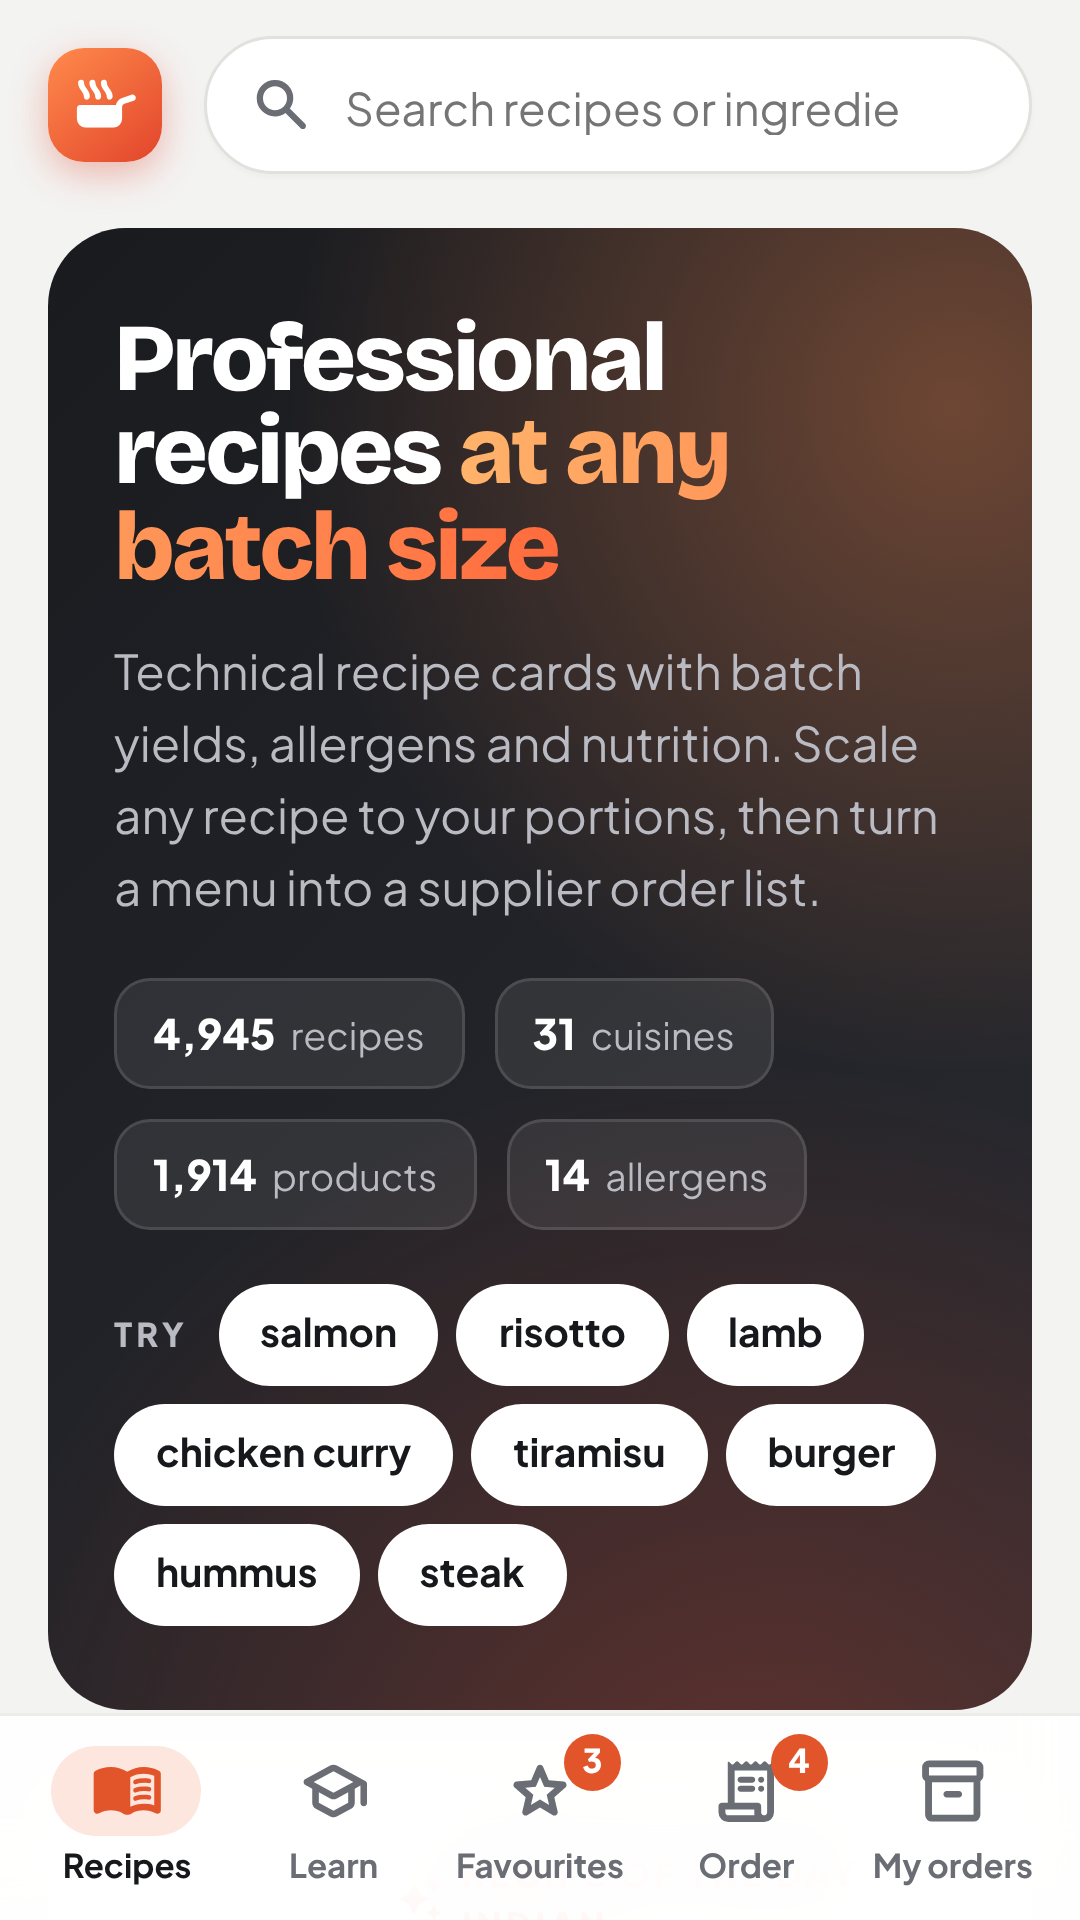
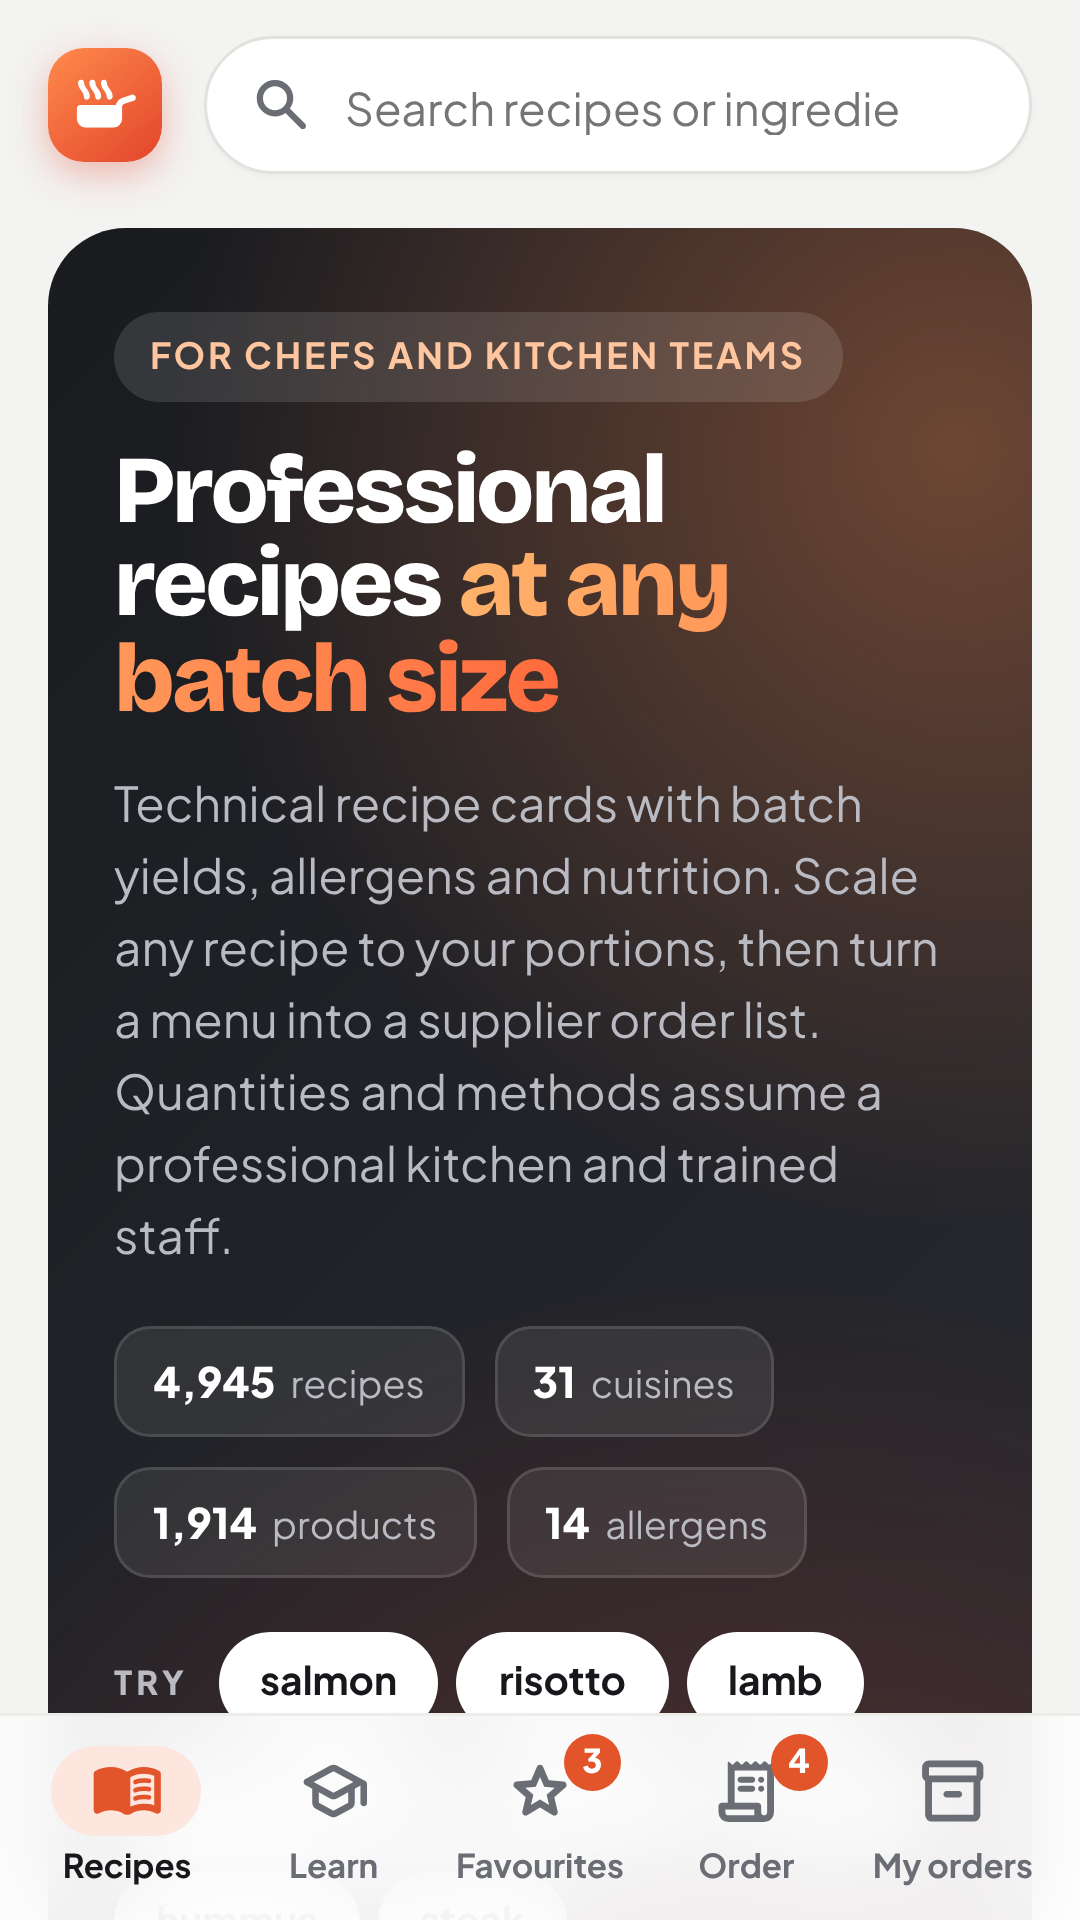
Say clearly that the app is for kitchen professionals
Hero tag, store short and full description, feature graphic and screenshots.

Claude-Session: https://claude.ai/code/session_01U632z7sGB7EKoKSd2kKhrr

Changed region(s): [[0.0306, 0.1562, 0.8861, 0.9062], [0.8861, 0.8438, 0.9778, 0.9062]]

diff --git a/index.html b/index.html
@@ -99,6 +99,7 @@ main{min-width:0}
   background:radial-gradient(circle at 92% 12%,rgba(255,138,76,.35),rgba(255,138,76,0) 42%),radial-gradient(circle at 70% 110%,rgba(226,69,43,.30),rgba(226,69,43,0) 45%),linear-gradient(135deg,var(--hero-1),var(--hero-2))}
 .hero>*{position:relative;z-index:1;min-width:0}
 .hero h1{font-family:var(--f-display);font-weight:800;font-size:clamp(32px,5vw,54px);line-height:.98;letter-spacing:-.03em;margin:0;text-wrap:balance;max-width:15ch;color:var(--hero-ink)}
+.pro-tag{display:inline-block;margin:0 0 14px;padding:6px 12px;border-radius:999px;background:rgba(255,255,255,.12);color:#FFC59E;font-size:12px;font-weight:700;letter-spacing:.08em;text-transform:uppercase}
 .hero h1 em{font-style:normal;background:linear-gradient(90deg,#FFB36B,#FF6B3D);-webkit-background-clip:text;background-clip:text;color:transparent}
 .hero p{margin:14px 0 0;color:var(--hero-muted);max-width:56ch;font-size:16px}
 .stats{display:flex;flex-wrap:wrap;gap:10px;margin-top:18px}
@@ -648,8 +649,8 @@ function viewHome(){
     const pool=R.filter(r=>r.kcal&&!["Prep & Mise en Place","Marinades","Sauces","Staff Canteen","Fermentation & Pickling","Drinks","Classic Cocktails & Bar Spec","Batch Cocktails & Event Punches","Texture-Modified Meals (IDDSI)","Sugar & Chocolate Décor"].includes(D.folders[r.f][0])&&r.lines.length>4&&r.N>=4&&r.kcal<900);
     const day=Math.floor(Date.now()/864e5), fr=pool[(day*7919)%pool.length];
     const POP=["salmon","risotto","lamb","chicken curry","tiramisu","burger","hummus","steak"];
-    m.innerHTML=`<section class="hero"><div><h1>Professional recipes <em>at any batch size</em></h1>
-      <p>Technical recipe cards with batch yields, allergens and nutrition. Scale any recipe to your portions, then turn a menu into a supplier order list.</p>
+    m.innerHTML=`<section class="hero"><div><span class="pro-tag">For chefs and kitchen teams</span><h1>Professional recipes <em>at any batch size</em></h1>
+      <p>Technical recipe cards with batch yields, allergens and nutrition. Scale any recipe to your portions, then turn a menu into a supplier order list. Quantities and methods assume a professional kitchen and trained staff.</p>
       <div class="stats"><span><b>${R.length.toLocaleString("en")}</b> recipes</span><span><b>${GROUPS[0][1].length}</b> cuisines</span><span><b>${nProd.toLocaleString("en")}</b> products</span><span><b>14</b> allergens</span></div>
       <div class="pop"><small>Try</small>${POP.map(p=>`<button data-pop="${esc(p)}">${esc(p)}</button>`).join("")}</div></div>
       <div class="cluster" aria-hidden="true">${plate([8,"meat"],"p1")}${plate([205,"fish"],"p2")}${plate([335,"cake"],"p3")}${plate([108,"leaf"],"p4")}</div></section>

diff --git a/store/listing.md b/store/listing.md
@@ -3,10 +3,10 @@
 **App name (max 30):** Chefsheet: Pro Kitchen Recipes
 
 **Short description (max 80):**
-4,900+ professional recipes you can scale to any batch, plus order lists.
+Pro recipe cards for chefs: scale any batch, build order lists, train the team.
 
 **Full description (max 4000):**
-Chefsheet is a recipe library built for professional kitchens: hotels, banquets, buffets, restaurants and catering.
+Chefsheet is made for kitchen professionals: chefs, sous chefs, chefs de partie, pastry chefs, banquet and catering teams, and culinary students. Recipes are technical cards in grams with batch yields, written for professional kitchens and trained staff.
 
 SCALE ANY RECIPE
 • 4,900+ technical recipe cards in 100+ collections: cuisines, courses, buffet, banquet, pastry, bakery, fine dining and more
